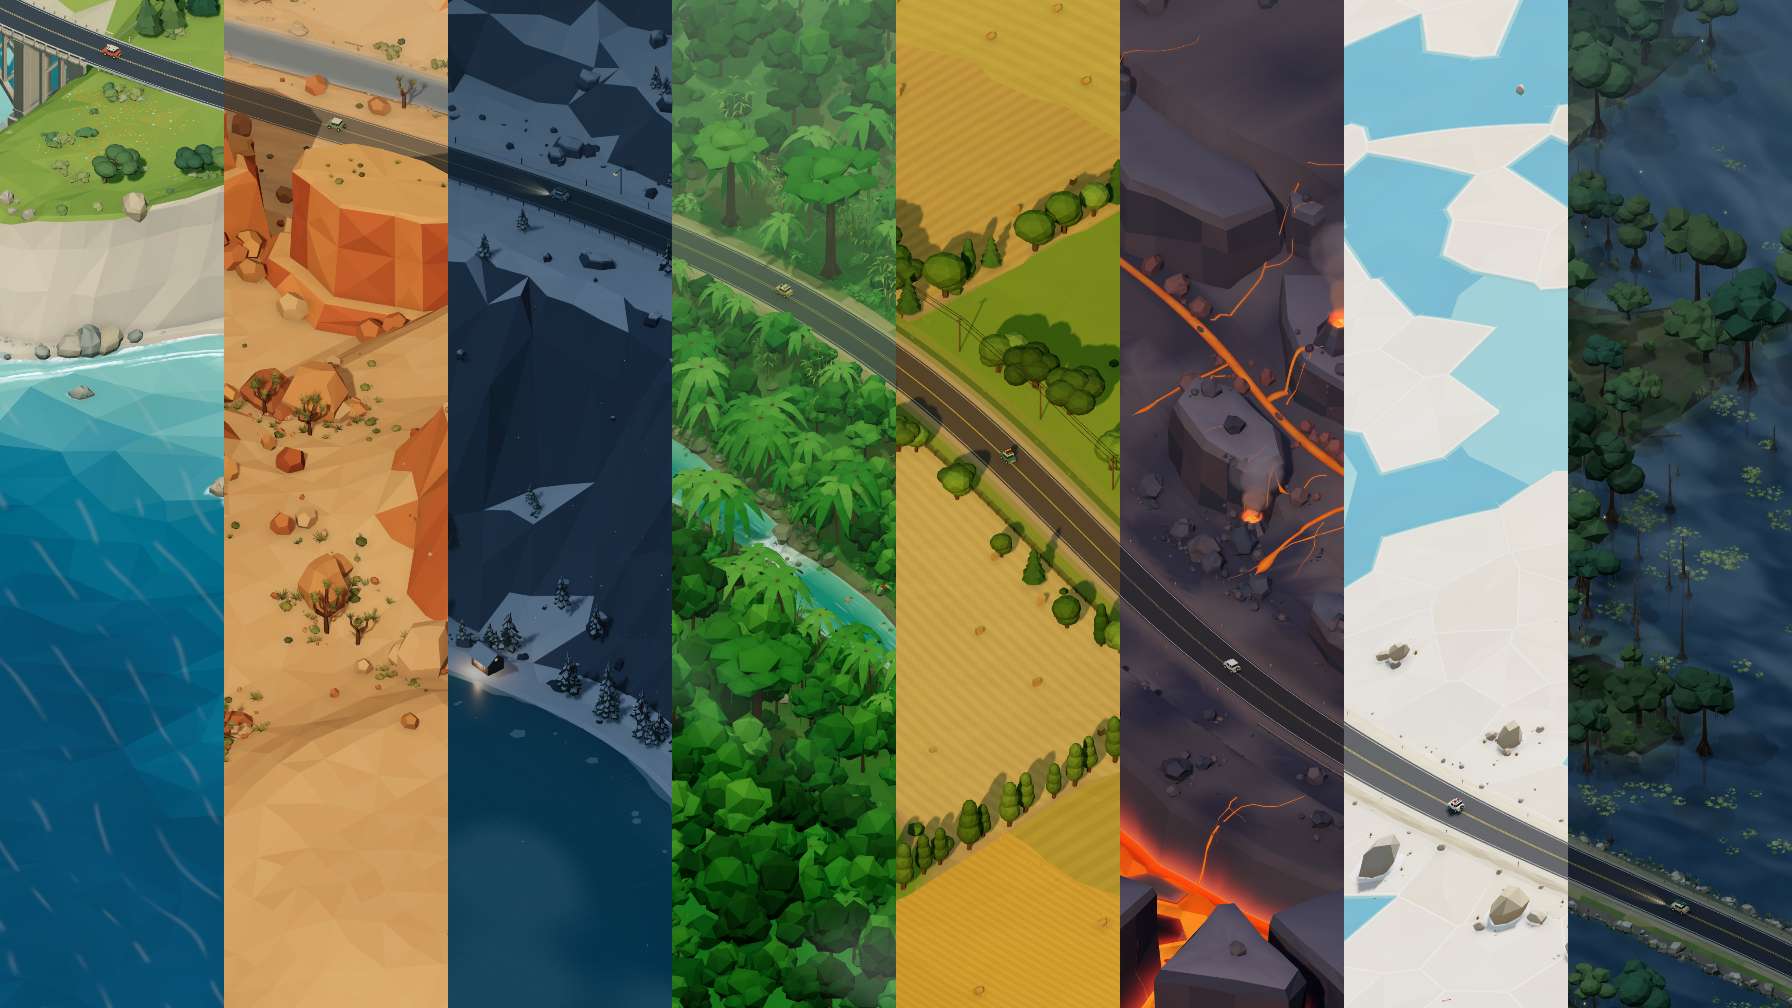
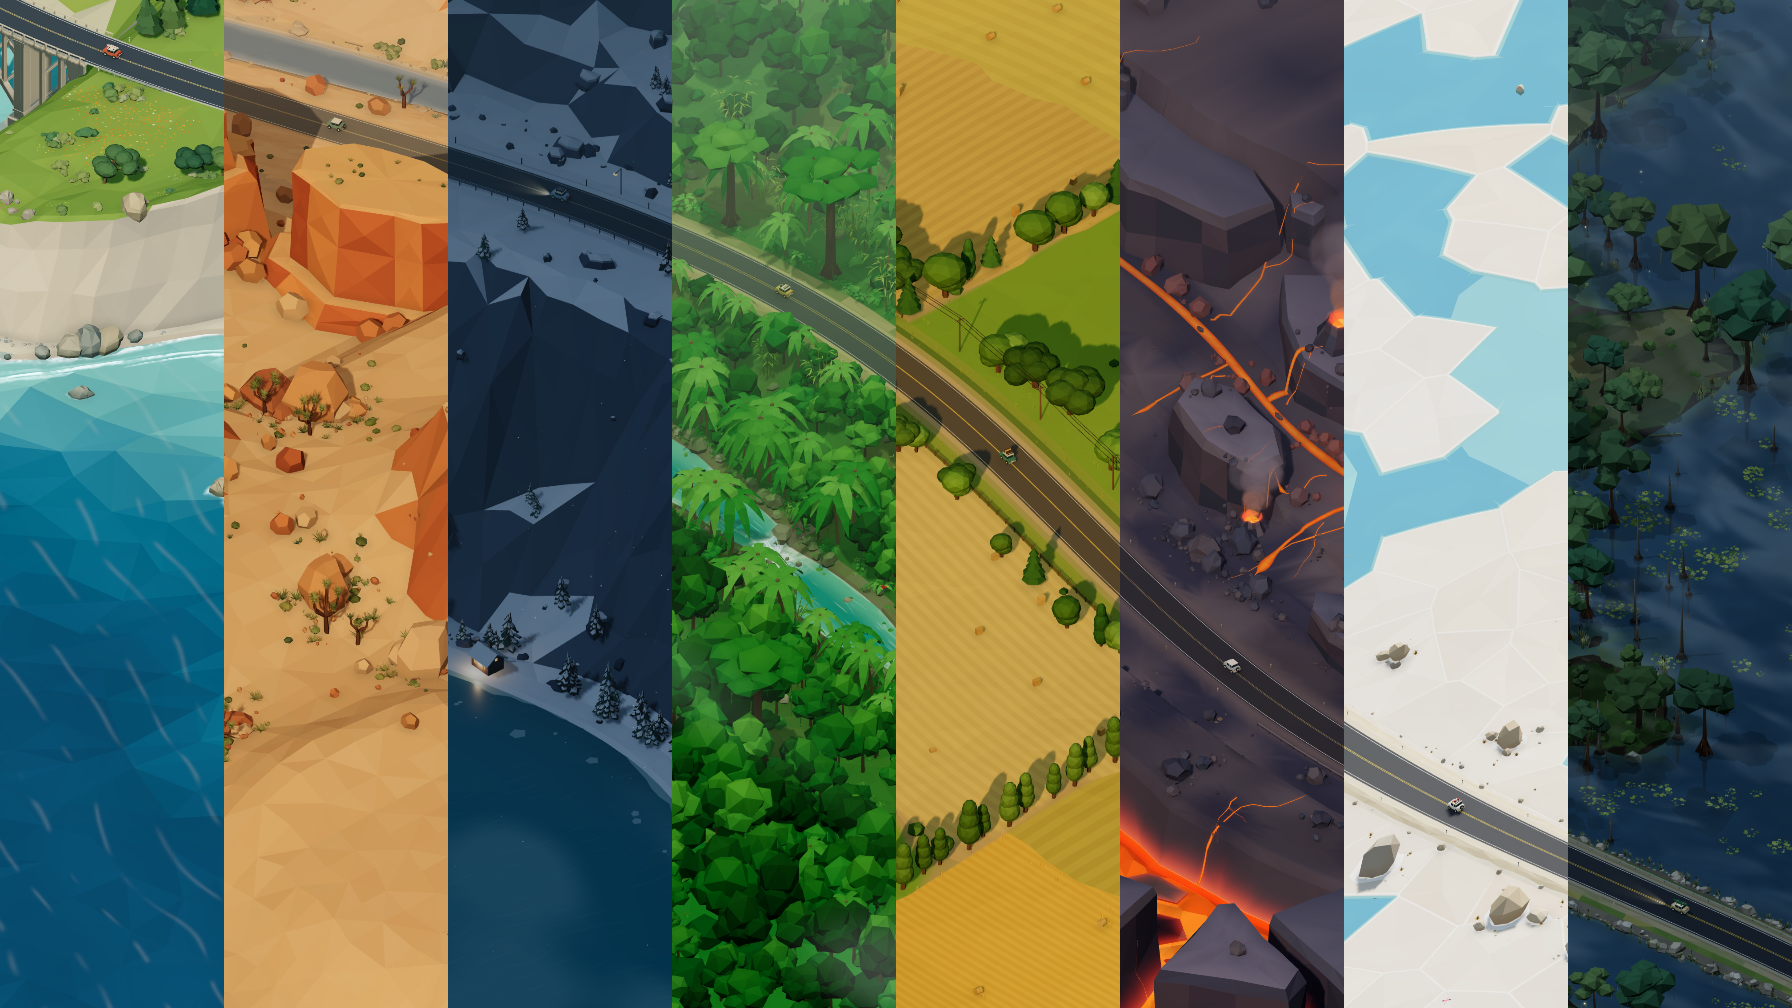
Update PWA

diff --git a/README.md b/README.md
@@ -84,7 +84,7 @@ To play on your phone, open the Network URL that Vite prints while on the same W
 
 Scenery is in [src/world/](src/world/), driving is in [vehicle.js](src/vehicle.js) and scene setup is in [main.js](src/main.js). Most browser tests need the dev server running, e.g. `npm run test:browser`. The rest are listed in [package.json](package.json). They use Chrome at its default Windows path; set `CHROME_PATH` or `TEST_URL` to change that. Reports go to `.artifacts/`.
 
-`npm run showcase:slices` regenerates the image at the top of this page. Set `SEED`, `POSITION` or `OUTPUT` to change it; `SALT_POSITION` frames the salt slice independently.
+`npm run showcase:slices` regenerates the image at the top of this page and the wide screenshot shown when installing the website. Set `SEED`, `POSITION` or `OUTPUT` to change it; `SALT_POSITION` frames the salt slice independently. A run with `OUTPUT` set leaves the install screenshot alone.
 
 More docs:
 

diff --git a/PWA.md b/PWA.md
@@ -24,7 +24,7 @@ Serve `sw.js` from the same URL every time with `Cache-Control: no-cache`. The o
 
 ## Icons and tests
 
-`node scripts/pwa-icons.mjs` regenerates the icons from the favicon and `node scripts/pwa-screenshots.mjs` updates the install screenshots.
+`node scripts/pwa-icons.mjs` regenerates the icons from the favicon and `node scripts/pwa-screenshots.mjs` updates the phone install screenshot. The wide install screenshot comes from `npm run showcase:slices`.
 
 ```sh
 node scripts/pwa-test.mjs
